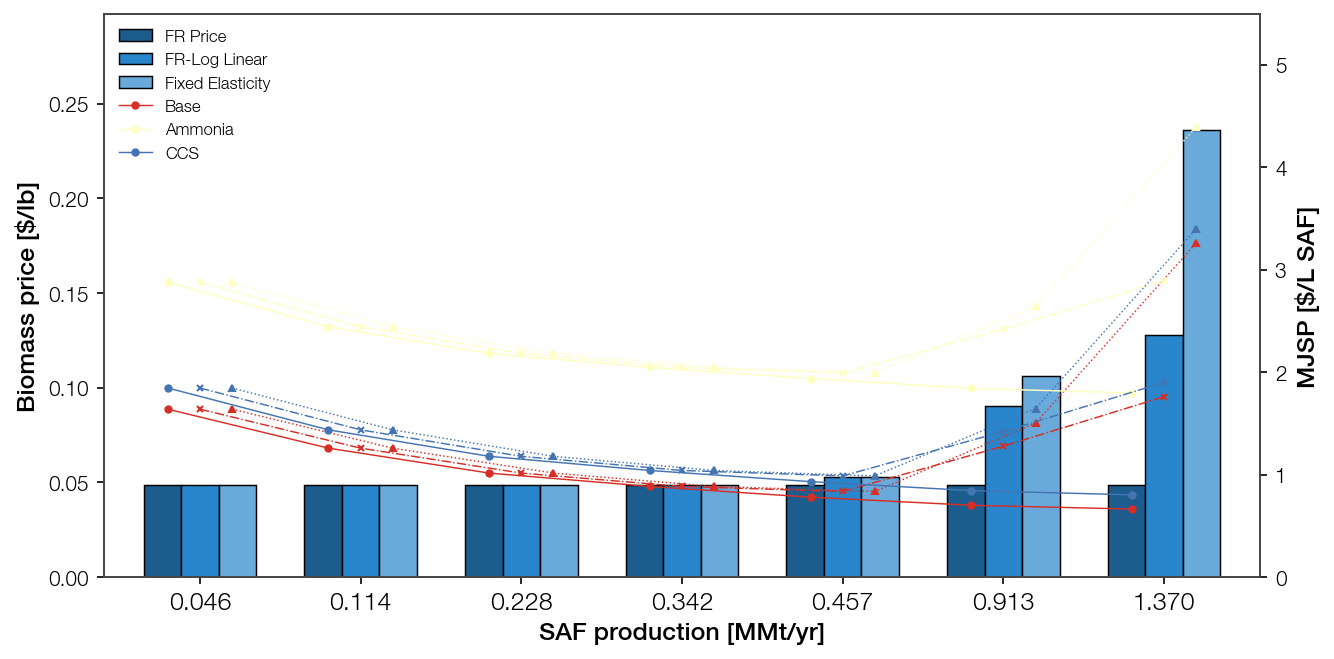
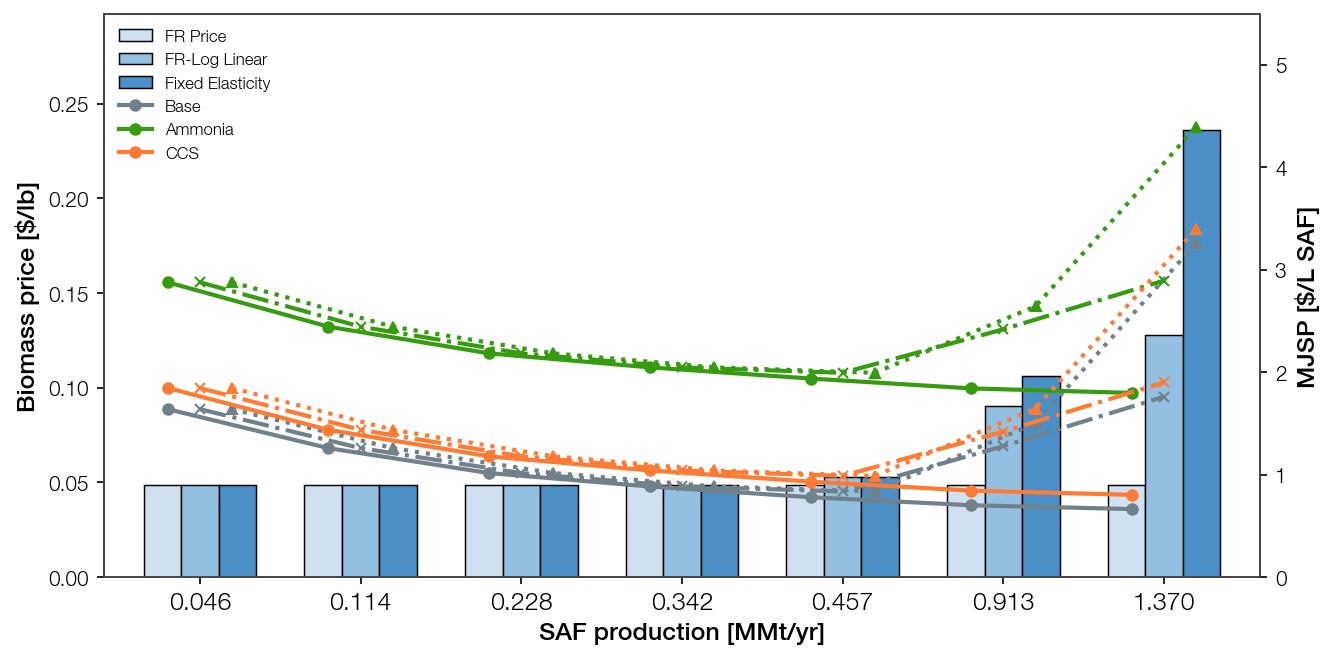
Recolor scale-up MJSP figures; fix bar CCS mislabel
Base line/bar -> black, pastel-blue gradient price bars, thicker MJSP
lines/markers in the price-model figure. New grouped-bar script relabels
the 60% CCS series (was mislabeled "Full-CCS").

Claude-Session: https://claude.ai/code/session_01KBxeQoxowtm97ekL9hH1oq

Changed region(s): [[0.0922, 0.1821, 0.922, 0.8801], [0.0922, 0.0303, 0.1229, 0.2428], [0.6762, 0.4856, 0.7684, 0.5463]]

diff --git a/plot_scale_up_mjsp_bar.py b/plot_scale_up_mjsp_bar.py
@@ -1,0 +1,56 @@
+"""Grouped bar plot of MJSP (Base / Full-Ammonia / 60% CCS) vs scale.
+
+Data = _Scale_Up_Sensitivity.md §1 table (original linear-CAPEX numbers, the
+manuscript-matching basis). Values are hardcoded from that table, not re-run.
+"""
+import os
+import numpy as np
+import matplotlib.pyplot as plt
+
+# _PLOTTING_STYLE.md (SA_RC lives only in the notebook; inlined here)
+SA_RC = {
+    'figure.dpi': 150, 'figure.facecolor': 'white', 'figure.autolayout': True,
+    'axes.facecolor': 'white', 'axes.edgecolor': '#444444', 'axes.linewidth': 0.8,
+    'axes.spines.top': True, 'axes.spines.right': True, 'axes.labelsize': 12,
+    'axes.labelcolor': 'black', 'axes.labelweight': '500', 'axes.grid': False,
+    'xtick.labelsize': 12, 'xtick.color': 'black', 'ytick.labelsize': 10, 'ytick.color': 'black',
+    'font.family': 'sans-serif',
+    'font.sans-serif': ['Helvetica Neue LT Pro', 'Helvetica Neue', 'Arial', 'DejaVu Sans'],
+    'font.size': 10, 'font.weight': '300', 'text.color': 'black',
+    'patch.edgecolor': 'black', 'patch.linewidth': 0.7, 'patch.force_edgecolor': True,
+    'legend.fontsize': 8, 'legend.title_fontsize': 9, 'legend.framealpha': 0.0,
+    'legend.edgecolor': '#444444', 'lines.linewidth': 0.7, 'lines.markersize': 3,
+    'savefig.dpi': 150, 'savefig.bbox': 'tight', 'savefig.facecolor': 'white',
+}
+
+SCALES: list[float] = [1, 2.5, 5, 7.5, 10, 20, 30]
+SAF_MMT: list[float] = [0.046, 0.114, 0.228, 0.342, 0.457, 0.913, 1.370]  # SAF kt/yr (§1) / 1000
+MJSP: dict[str, list[float]] = {  # $/L SAF, §1 table
+    'Base':          [1.582, 1.231, 1.004, 0.881, 0.781, 0.711, 0.678],
+    'Full-Ammonia':  [3.426, 3.022, 2.778, 2.645, 2.532, 2.441, 2.403],
+    '60% CCS':       [1.743, 1.392, 1.165, 1.041, 0.941, 0.872, 0.839],  # §1 = 60% capture, not full-CCS
+}
+
+plt.rcParams.update(SA_RC)
+# Base black; vivid green/orange for the H2 configs (Base / Full-Ammonia / 60% CCS)
+colors = {'Base': '#000000', 'Full-Ammonia': '#548235', '60% CCS': '#ed7d31'}
+
+x = np.arange(len(SCALES))
+w = 0.27
+fig, ax = plt.subplots(figsize=(8, 5))
+for i, (case, vals) in enumerate(MJSP.items()):
+    ax.bar(x + (i - 1) * w, vals, w, label=case, color=colors[case])
+
+ax.set_xlabel('SAF production [MMt/yr]')
+ax.set_ylabel('MJSP [\\$/L SAF]')  # escape $ so mathtext keeps the currency sign
+ax.set_xticks(x)
+ax.set_xticklabels([f'{s:.3f}' for s in SAF_MMT])
+ax.set_ylim(0, ax.get_ylim()[1] * 1.2)
+ax.legend()
+
+out = os.path.join('Figure', 'scale_up_mjsp_bar.png')
+fig.savefig(out, dpi=150)
+print('saved', out)
+
+# check: bars match the source table (Ammonia > CCS > Base at every scale)
+assert all(a > c > b for a, c, b in zip(MJSP['Full-Ammonia'], MJSP['60% CCS'], MJSP['Base']))

diff --git a/tea_scale_up_price_models.py b/tea_scale_up_price_models.py
@@ -119,8 +119,8 @@ SA_RC = {
 }
 plt.rcParams.update(SA_RC)
 
-bar_colors_price = ['#1c5d8e', '#2986cc', '#69aadb']   # biomass price bars, one per price model
-line_colors = plt.cm.RdYlBu(np.linspace(0.1, 0.9, len(mjsp)))   # MJSP lines, one colour per H2 config
+bar_colors_price = ['#cfe0f1', '#93bfe0', '#4a90c7']   # pastel-blue gradient, one per price model
+line_colors = ['#70818A', '#369C0F', '#FF7B33']   # Base black; green/orange: Ammonia / CCS(60%) lines
 styles_price = ['-', '-.', ':']
 markers_model = ["o", "x", "^"]
 
@@ -143,7 +143,7 @@ for cfg_idx, (name, df) in enumerate(mjsp.items()):
     for price_idx, col in enumerate(df.columns):
         xs = [k + offset * (price_idx - 1) for k in range(len(df.index))]
         ax2.plot(xs, df[col], color=line_colors[cfg_idx], marker=markers_model[price_idx],
-                 linestyle=styles_price[price_idx],
+                 linestyle=styles_price[price_idx], linewidth=2, markersize=5,
                  label=name if price_idx == 0 else None)
 ax2.set_ylabel("MJSP [$/L SAF]")
 ax2.set_ylim(0, ax2.get_ylim()[1] * 1.2)
